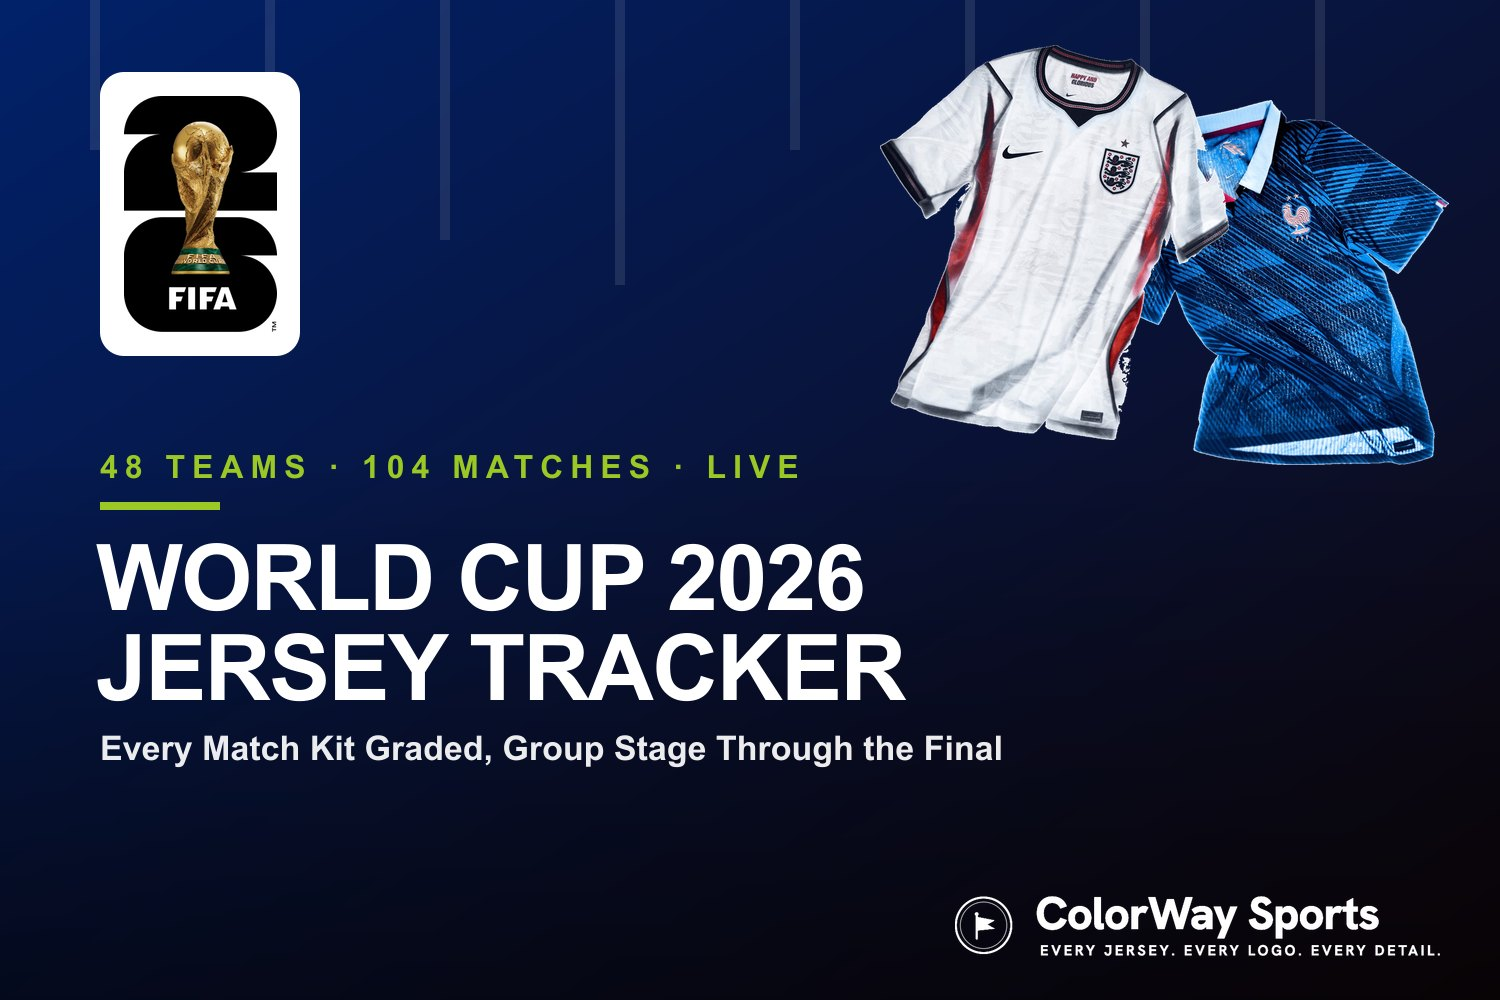
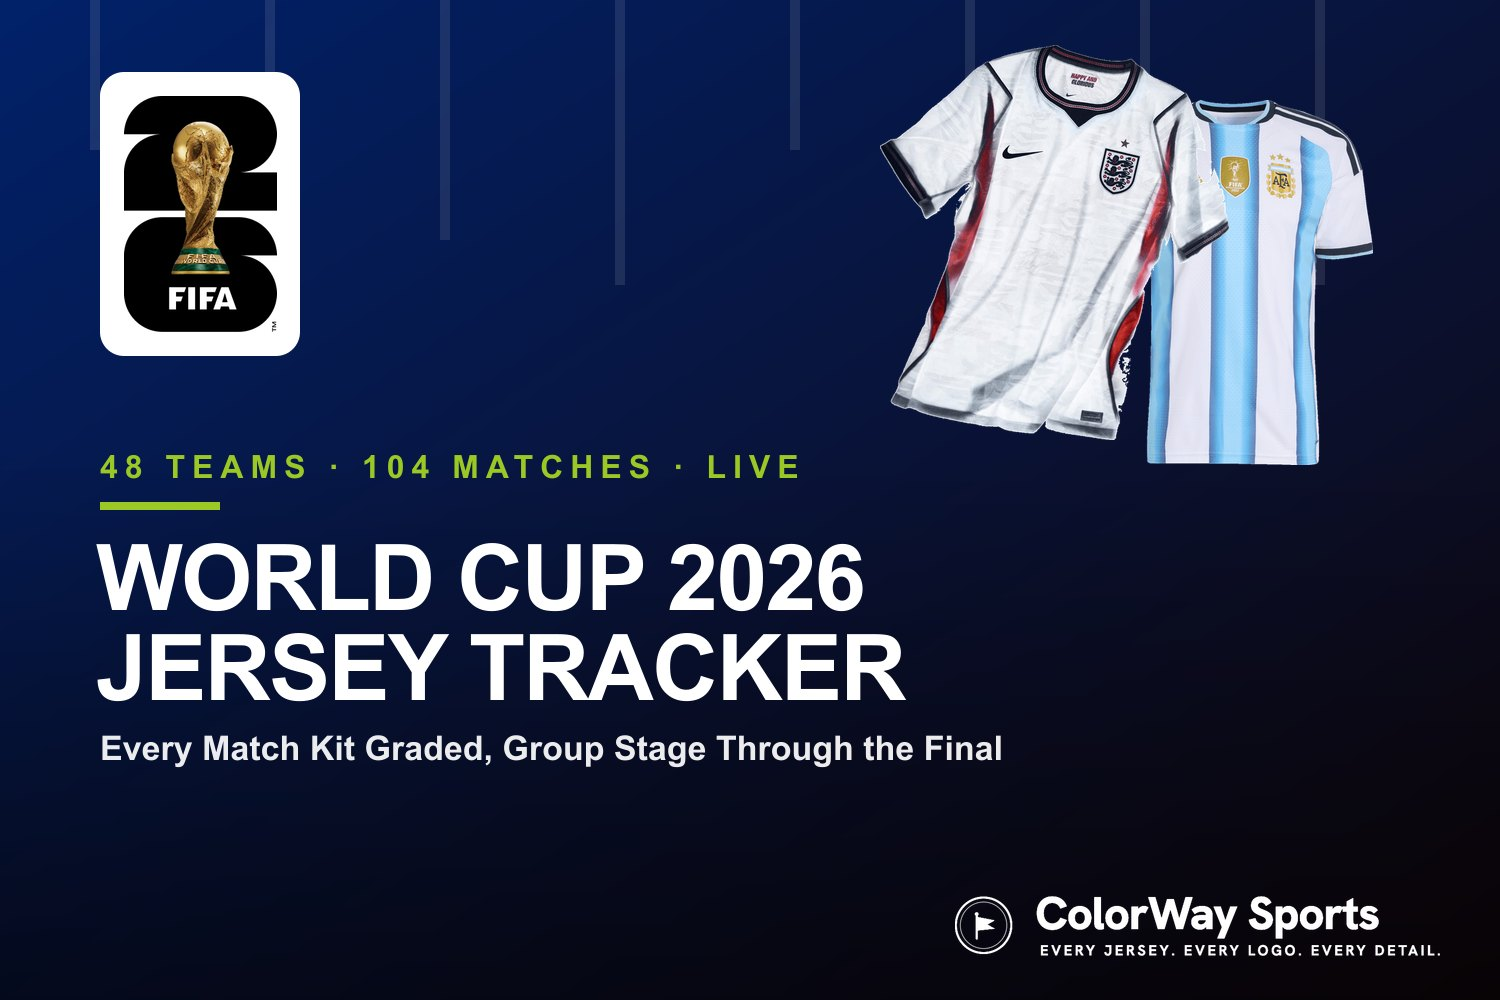
Publish 'Who Picks MLB Uniforms' (Skenes black hook); add LaMelo to NBA FA tracker; lock WC sf-1 Spain 2-0 + swap France off cover

Changed region(s): [[0.736, 0.093, 0.9813, 0.465]]

diff --git a/lib/wcBracket.ts b/lib/wcBracket.ts
@@ -208,6 +208,7 @@ export const results: Record<string, Result> = {
   "qf-2": { winner: "ESP", score: "2-1" },           // July 10 — Spain beat Belgium 2-1
   "qf-3": { winner: "ENG", score: "2-1" },           // July 10 — England beat Norway 2-1
   "qf-4": { winner: "ARG", score: "3-1" },           // July 11 — Argentina beat Switzerland 3-1
+  "sf-1": { winner: "ESP", score: "2-0" },           // July 14 — Spain beat France 2-0 to reach the Final
 };
 
 // Merge the locked results over the user's predictions (results win) and prune.

diff --git a/content/posts/who-picks-mlb-uniforms-each-game.md b/content/posts/who-picks-mlb-uniforms-each-game.md
@@ -1,0 +1,106 @@
+---
+title: "Why Do the Pirates Keep Wearing Black When Paul Skenes Pitches? Here's Who Actually Picks MLB Uniforms Each Game"
+category: MLB
+date: "2026-07-14"
+updatedDate: "2026-07-14"
+excerpt: "Why do the Pirates keep wearing black when Paul Skenes pitches? The answer reveals who actually picks which jersey and uniform an MLB team wears each game."
+gradient: "linear-gradient(135deg, #27251F 0%, #0d0d10 55%, #FDB827 130%)"
+cardStyle: words
+kicker: Explained
+logoSrc: "/logos/pirates.svg"
+league: mlb
+teams: []
+---
+
+If you watch enough Pittsburgh Pirates baseball, you have probably noticed it too: every time Paul Skenes takes the mound, the Pirates come out in the black jerseys. That is not your imagination, and it points to one of the most overlooked quirks in the sport, which is that the players, not the marketing department, usually decide which uniform a team wears each game.
+
+<div style="display: flex; justify-content: center; margin: 1.5em 0 2.5em;">
+<blockquote class="twitter-tweet" data-dnt="true"><a href="https://twitter.com/Pirates/status/2076374075371360483"></a></blockquote>
+</div>
+
+<div style="background: #f5f7fa; border: 1px solid #e3e6ec; border-left: 4px solid #FDB827; border-radius: 10px; padding: 18px 22px; margin: 1.5em 0;">
+<p style="margin: 0 0 8px; font-size: 12px; font-weight: 800; text-transform: uppercase; letter-spacing: 1.5px; color: #b8860b;">The Quick Answer</p>
+<p style="margin: 0; color: #1a1e28; font-size: 16px; line-height: 1.65;">For most games, the starting pitcher chooses which jersey and uniform the team wears, usually on superstition or how he has performed in a certain look. The manager can overrule him, the equipment staff sets it up a day ahead, and MLB's rules draw the outer lines. So the reason the Pirates go to their black alternate almost every time Skenes starts is not a coincidence and not the schedule. It is the ace exercising baseball's oldest wardrobe perk.</p>
+</div>
+
+## The Starting Pitcher Usually Gets the Call
+
+This surprises people, but it is a tradition that goes back more than a century. In the early days of baseball, starting pitchers often doubled as team captains, so the uniform decision fell to them. The captain role faded, but the perk stuck around. Today, with a few exceptions, the pitcher taking the mound that night picks the team's look.
+
+And because pitchers are the most superstitious athletes in the sport, the choice is rarely about aesthetics. A guy who threw seven shutout innings in the black alternate is going right back to the black alternate. It is less a fashion statement than a good-luck charm. So if Skenes likes how he feels and how he throws in the Pirates' black, he has every right to keep calling for it, start after start. That is very likely a big part of why the pattern looks so real.
+
+## The Manager Has the Final Say
+
+The pitcher gets the first choice, not the only choice. If a starter has no preference, or defers, the manager makes the call. Managers can also override a pitcher outright and mandate a specific uniform, though most leave the superstition alone and let their starter have the day. Think of it as the pitcher picking and the manager holding a veto he rarely needs to use.
+
+## The Equipment Manager Makes It Happen
+
+Behind every jersey on the field is a clubhouse staffer who made sure it was hanging in the right locker. The equipment manager or a clubhouse assistant typically approaches the next day's starter ahead of time to lock in the choice, so the full set can be prepped, pressed, and ready by first pitch.
+
+On the road there is a twist. The starter often waits until game day to decide, because he needs to see which uniform the home team is wearing first so the two clubs do not show up in clashing looks.
+
+## Why Skenes Almost Always Means Black
+
+Here is where it gets fun. The Pirates carry a black alternate jersey, and when Paul Skenes starts, that is what they wear, over and over again. This is the pitcher's-choice tradition working exactly as advertised: Skenes clearly likes how he throws in the black, so start after start, out it comes. It is not the schedule and it is not the marketing team. It is arguably the best pitcher in baseball picking his own uniform.
+
+Worth clearing up one thing, because it trips people up. This is the Pirates' regular black alternate, not their [2026 City Connect](/stories/mlb-city-connect-jerseys-2026-ranked). The all-black "Black and Gold" City Connect runs on a set Friday home schedule for the whole team. The Skenes black is the everyday alternate, showing up on his starts regardless of the day or the City Connect calendar. Same color family, two different jerseys, and it is the alternate that has quietly become his signature look.
+
+<div style="margin: 2em 0; font-family: Inter, -apple-system, BlinkMacSystemFont, sans-serif;">
+<div style="background: #f5f7fa; border: 1px solid #e3e6ec; border-radius: 12px; padding: 16px 18px; display: flex; align-items: center; gap: 14px; flex-wrap: wrap;">
+<div style="flex: 1 1 160px; min-width: 0;"><div style="color: #14223f; font-size: 15px; font-weight: 700; line-height: 1.3;">Shop the Pirates black and gold</div><div style="color: #6b7180; font-size: 13px; line-height: 1.4;">Paul Skenes jerseys and Pirates City Connect gear, from Fanatics</div></div>
+<a href="https://fanatics.93n6tx.net/5kZn3j?u=https%3A%2F%2Fwww.fanatics.com%2Fsearch%3Fquery%3Dpaul%2520skenes%2520jersey" target="_blank" rel="sponsored noopener" data-fanatics-jersey-cta style="background: #FDB827; color: #14223f; font-size: 14px; font-weight: 800; padding: 10px 18px; border-radius: 8px; text-decoration: none; white-space: nowrap; margin-left: auto;">Shop now →</a>
+</div>
+<p style="font-size: 12px; color: #9aa0ac; margin: 8px 2px 0;">ColorWay Sports may earn a commission on purchases, at no extra cost to you.</p>
+</div>
+
+## MLB's Rules Set the Boundaries
+
+The team picks from a menu, and MLB decides what is on that menu. League rules still call for a distinctive white uniform at home and a different color on the road, which is why home whites and road grays remain the backbone of the sport. That tradition is loosening fast, though, and colored jerseys have actually overtaken both white and gray as the most common look in recent seasons.
+
+There is also a hard cap on options. Since 2023, the so-called "4+1 rule" limits each club to a home uniform, a road uniform, two alternates, and one City Connect. That is why teams map out an entire [uniform schedule](/stories/mlb-uniform-schedule-2026) in advance rather than improvising all 162 games, and it is why the black is a choice from a fixed set, not a blank check.
+
+## So Is It the Team or the League?
+
+Both, at different levels. The league sets the rulebook and approves every design. The club's design and marketing staff build the wardrobe, sometimes years ahead, which is a whole process of its own that we broke down in our look at [who really designs the uniforms](/stories/how-nba-uniforms-are-made-orlando-magic-rebrand). But once those jerseys are hanging in the clubhouse, the day-to-day "which one tonight" decision comes down to a superstitious pitcher, a manager with veto power, and an equipment manager making sure it is all ready to go.
+
+## The Bottom Line on Who Picks MLB Uniforms
+
+The next time the Pirates run out in black behind Paul Skenes, you will know it is probably not the schedule and definitely not an accident. For most MLB games the starting pitcher picks the jersey and uniform, usually for luck, the manager can overrule him, the equipment staff sets it up a day early, and MLB's home-white tradition and 4+1 limit draw the lines around what is even possible. It is one of the quirkiest little power structures in sports, hiding in plain sight every single night.
+
+## Frequently Asked Questions
+
+**Do the Pirates wear black every time Paul Skenes pitches?**
+Essentially, yes. The Pirates go to their black alternate jersey for Skenes starts again and again. Because the starting pitcher traditionally picks the team's uniform, a superstitious ace who likes throwing in the black can keep calling for it. Note that this is their regular black alternate, not the Friday-scheduled City Connect.
+
+**Does the pitcher choose the jersey in MLB?**
+Usually, yes. For most games the starting pitcher picks which jersey and uniform the team wears that day, a tradition dating back to when pitchers served as team captains. The choice is often based on superstition or how the pitcher has performed in a particular look.
+
+**Can the manager override the pitcher's uniform choice?**
+Yes. If the starting pitcher has no preference, the manager decides. Managers can also mandate a specific uniform and overrule the pitcher, though most let the starter keep the choice.
+
+**Why do MLB teams wear white at home?**
+MLB rules call for a distinctive white uniform at home and a different color on the road. It is a longstanding tradition, though colored jerseys have recently become more common than either white or gray.
+
+**How many uniforms can an MLB team have?**
+Since 2023, the "4+1 rule" limits each team to a home uniform, a road uniform, two alternates, and one City Connect uniform.
+
+**Who decides the uniform when a team is on the road?**
+The starting pitcher usually still chooses, but often waits until game day so he can see what the home team is wearing and avoid a color clash.
+
+**Why do the Pirates wear black and gold?**
+Black and gold is Pittsburgh's citywide identity, shared by the Pirates, Steelers, and Penguins, which is why the Pirates' black jersey feels so central to the team's look. Their black alternate has become a fan favorite and, with Paul Skenes on the mound, a near-weekly sight.
+
+**Do MLB players get to choose their own uniform?**
+Not individually. The whole team wears one coordinated uniform each game, so a player cannot mix and match. The one player with real say is the starting pitcher, who traditionally picks which jersey the entire team wears that day.
+
+**Does the home team or the away team pick the jersey first?**
+The home team effectively sets the look first, since MLB tradition has the home club in white. The road team's starting pitcher often waits until game day to choose so the two teams do not end up in clashing colors.
+
+**What is a City Connect uniform in MLB?**
+City Connect is a special alternate uniform program, originally launched with Nike, that lets teams wear a bold, city-themed look on select dates. Under the 4+1 rule, each team can carry one City Connect uniform on top of its four standard jerseys, and clubs like the Pirates run theirs on a set schedule, usually Friday home games.
+
+**Why do MLB teams wear colored jerseys instead of just white and gray now?**
+Teams have leaned into colored alternates for identity and merchandise sales, and the look pops on television. Colored jerseys have actually become more common than either traditional white or gray in recent seasons, even though MLB still calls for a distinctive white uniform at home.
+
+**Who picks the uniform in the playoffs and World Series?**
+The same process applies in October. The starting pitcher generally chooses the team's uniform, the manager can step in, and the home club still leans on its white uniform, though bold alternates show up on baseball's biggest stages too.

diff --git a/content/posts/nba-free-agency-tracker-2026.md b/content/posts/nba-free-agency-tracker-2026.md
@@ -1,9 +1,9 @@
 ---
-title: "2026 NBA Free Agency Tracker: Every New Signing in Their New Jersey (Lakers' Purple and Gold, Paul George's Celtics Green, Jaylen Brown to the Sixers)"
+title: "2026 NBA Free Agency Tracker: Every New Signing in Their New Jersey (LaMelo Ball to Minnesota, Jaylen Brown to the Sixers, Paul George's Celtics Green)"
 category: "NBA"
 date: "2026-07-07"
-updatedDate: "2026-07-13"
-excerpt: "Every 2026 NBA free agency signing in their new jersey: the Lakers' backcourt reload, Paul George in Celtics green, Jaylen Brown's move to the Sixers, and more. Updated all summer."
+updatedDate: "2026-07-14"
+excerpt: "Every 2026 NBA free agency and trade move in their new jersey: LaMelo Ball to the Timberwolves, Jaylen Brown to the Sixers, Paul George in Celtics green, and more. Updated all summer."
 gradient: "linear-gradient(135deg, #007A33 0%, #0a1f4d 50%, #C9082A 100%)"
 coverImage: "/images/posts/nba-free-agency-tracker-2026/cover.jpg"
 coverImagePosition: "center center"
@@ -21,6 +21,14 @@ Free agency is the second draft of the NBA offseason, and the fun part for us is
   <span style="display: block; font-size: 1.15em; font-weight: 800; color: #ffffff; line-height: 1.4;">Spot a signing we haven't added yet?</span>
   <span style="display: block; font-size: 0.98em; line-height: 1.55; color: #dbe4f5; margin-top: 8px;">Free agency moves fast and we do not want to miss anyone. Reply to our post on X <a href="https://x.com/colorwaysports" target="_blank" rel="noopener" style="color: #9fe3b8; font-weight: 700;">@ColorWaySports</a> or email <a href="mailto:jake@colorwaysports.com" style="color: #9fe3b8; font-weight: 700;">jake@colorwaysports.com</a> with the player and their new team, and we will get them into the tracker in their new colors.</span>
 </div>
+
+## LaMelo Ball, Minnesota Timberwolves
+
+<div style="display: flex; justify-content: center; margin: 1.5em 0 2.5em;">
+<blockquote class="twitter-tweet" data-dnt="true"><a href="https://twitter.com/Timberwolves/status/2077109371155439964"></a></blockquote>
+</div>
+
+The headline swap of the offseason lands LaMelo Ball in Minnesota, and the colorway change is a big one. Ball spent his entire career to this point in Charlotte's teal, purple, and mint, one of the more distinctive palettes in the league, and the four-team blockbuster that sent him to the Timberwolves for Naz Reid and a haul of picks now puts him in Minnesota's midnight blue, aurora green, and grey. It is a colder, more modern identity, and dropping him next to Anthony Edwards gives the Wolves one of the most electric backcourts in the West, both of them in that deep navy. Seeing Ball's flash and flair in Timberwolves blue instead of Hornets teal is going to take a few games to get used to, and that is exactly the kind of jersey and uniform reset this tracker lives for.
 
 ## The Lakers' Backcourt Reload: Collin Sexton, Quentin Grimes, and Sandro Mamukelashvili
 
